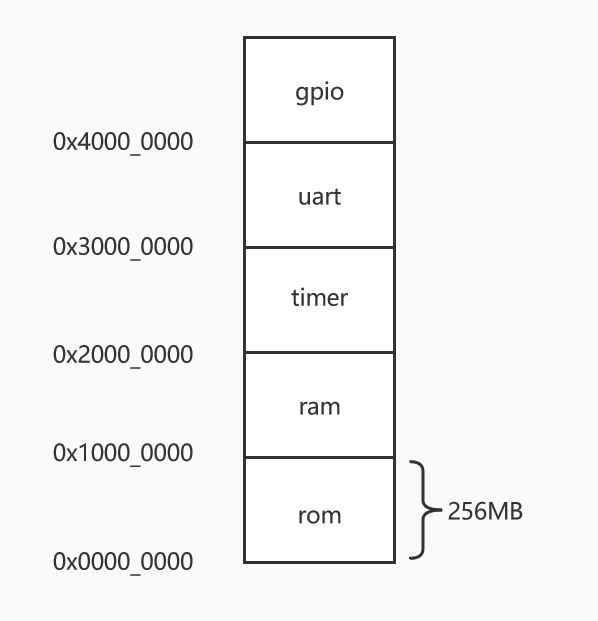
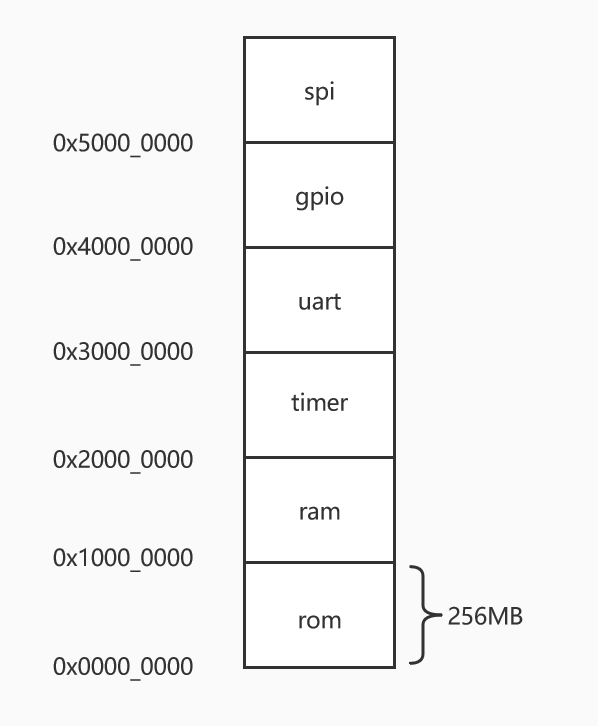
add spi

diff --git a/README.md b/README.md
@@ -40,7 +40,7 @@ tinyriscv的整体框架如下：
 
 ![tinyriscv整体框架](./pic/arch.jpg)
 
-tinyriscv目前外挂了5个外设，每个外设的空间大小为256MB，地址空间分配如下图所示：
+tinyriscv目前外挂了6个外设，每个外设的空间大小为256MB，地址空间分配如下图所示：
 
 <img src="./pic/addr_alloc.jpg" alt="地址空间分配" style="zoom:70%;" />
 
@@ -116,11 +116,13 @@ C语言程序例程位于tests\example目录里。
 
 1. 写设计文档；
 
-2. 支持SPI norflash；
+2. 支持通过UART烧写固件；
 
 3. ......
 
 # 7.更新记录
+
+2020-05-05：支持spi master，增加spi测试例程。
 
 2020-04-25：支持FreeRTOS(v10.3.1)。
 
